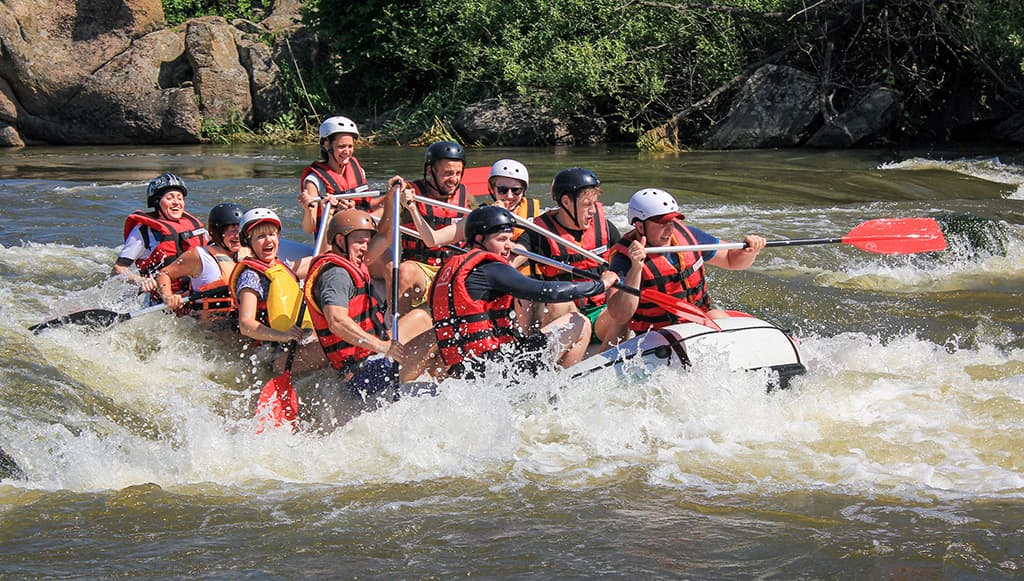
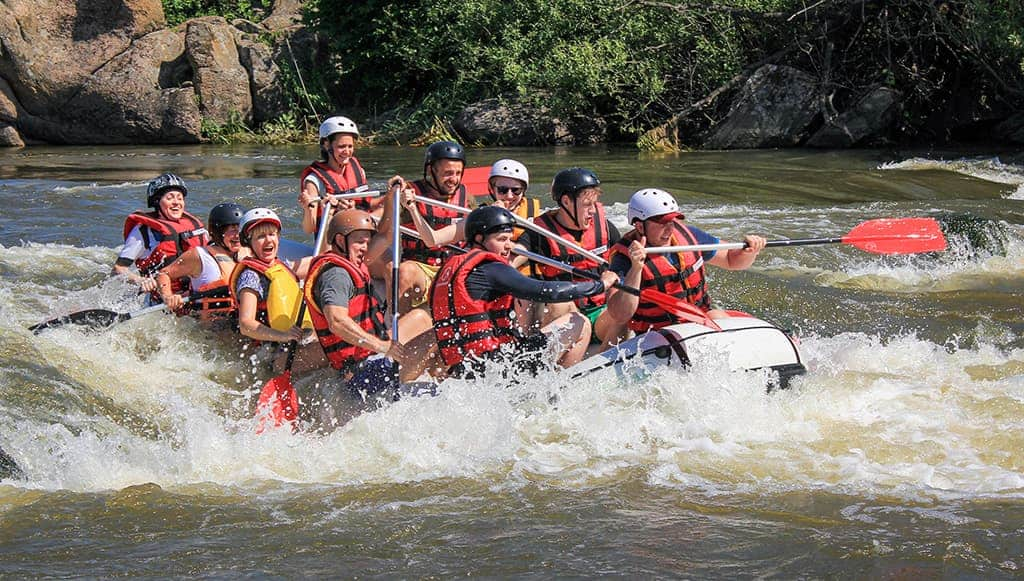
commit

Changed region(s): [[0.4375, 0.5886, 0.5, 0.6506]]

diff --git a/wwr/styles/rafting.css b/wwr/styles/rafting.css
@@ -34,6 +34,9 @@ nav, p, section, article{
 .socialmedia a {
     text-decoration: none;
 }
+.socialmedia img{
+    width: 75px;
+}
 
 .hero{
     position: relative;
